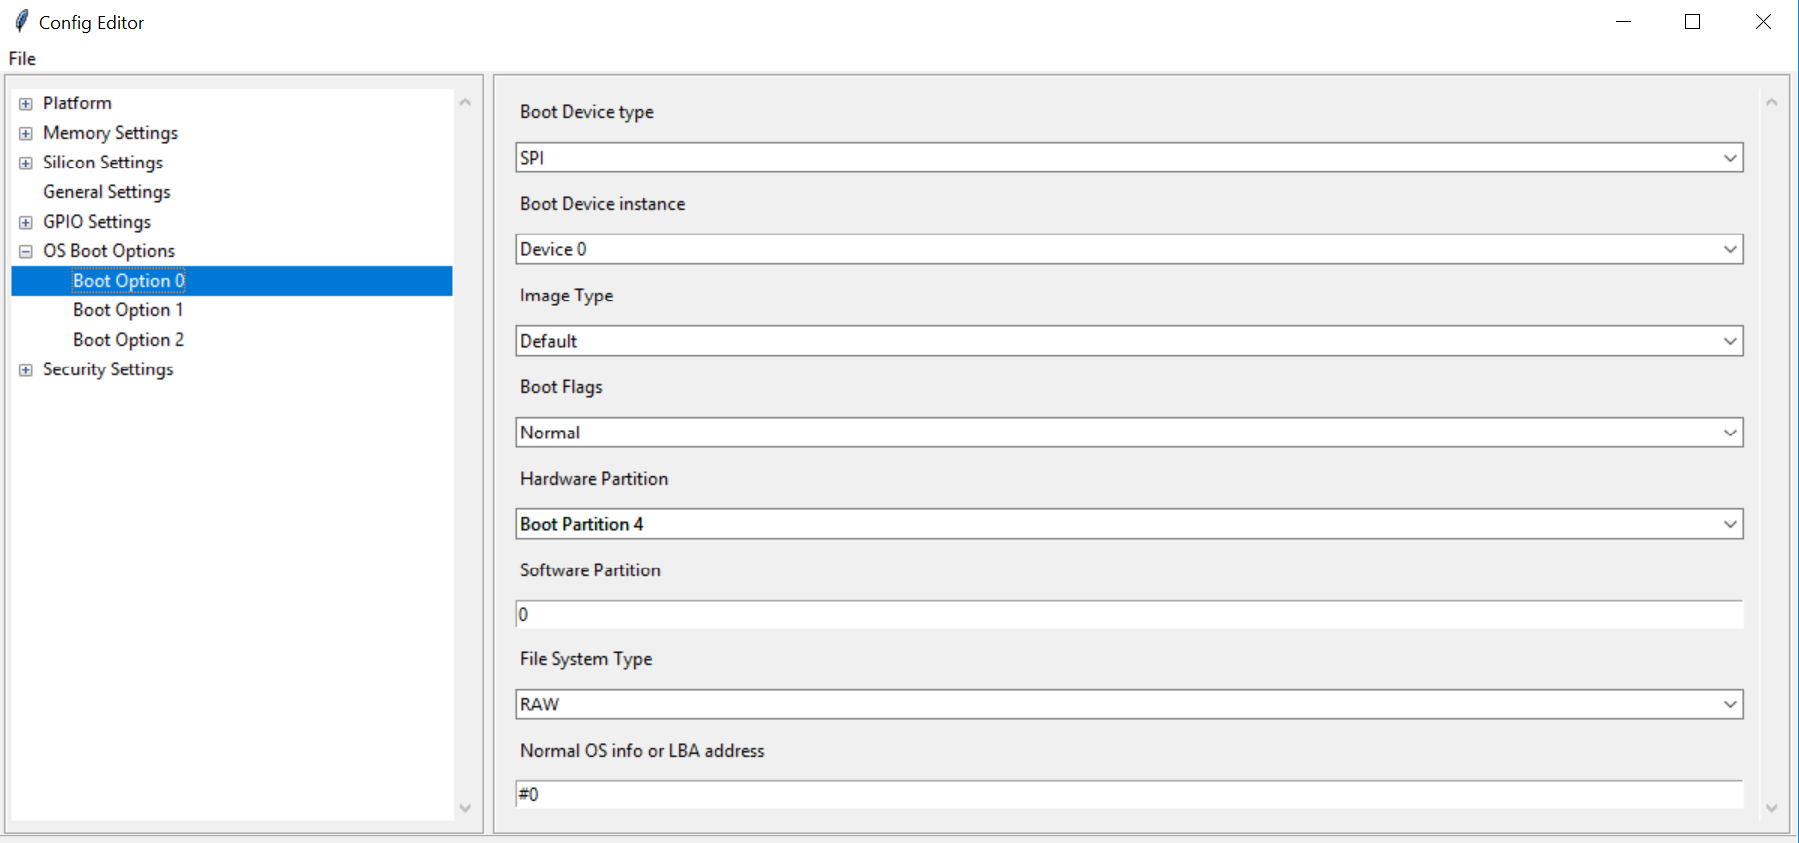
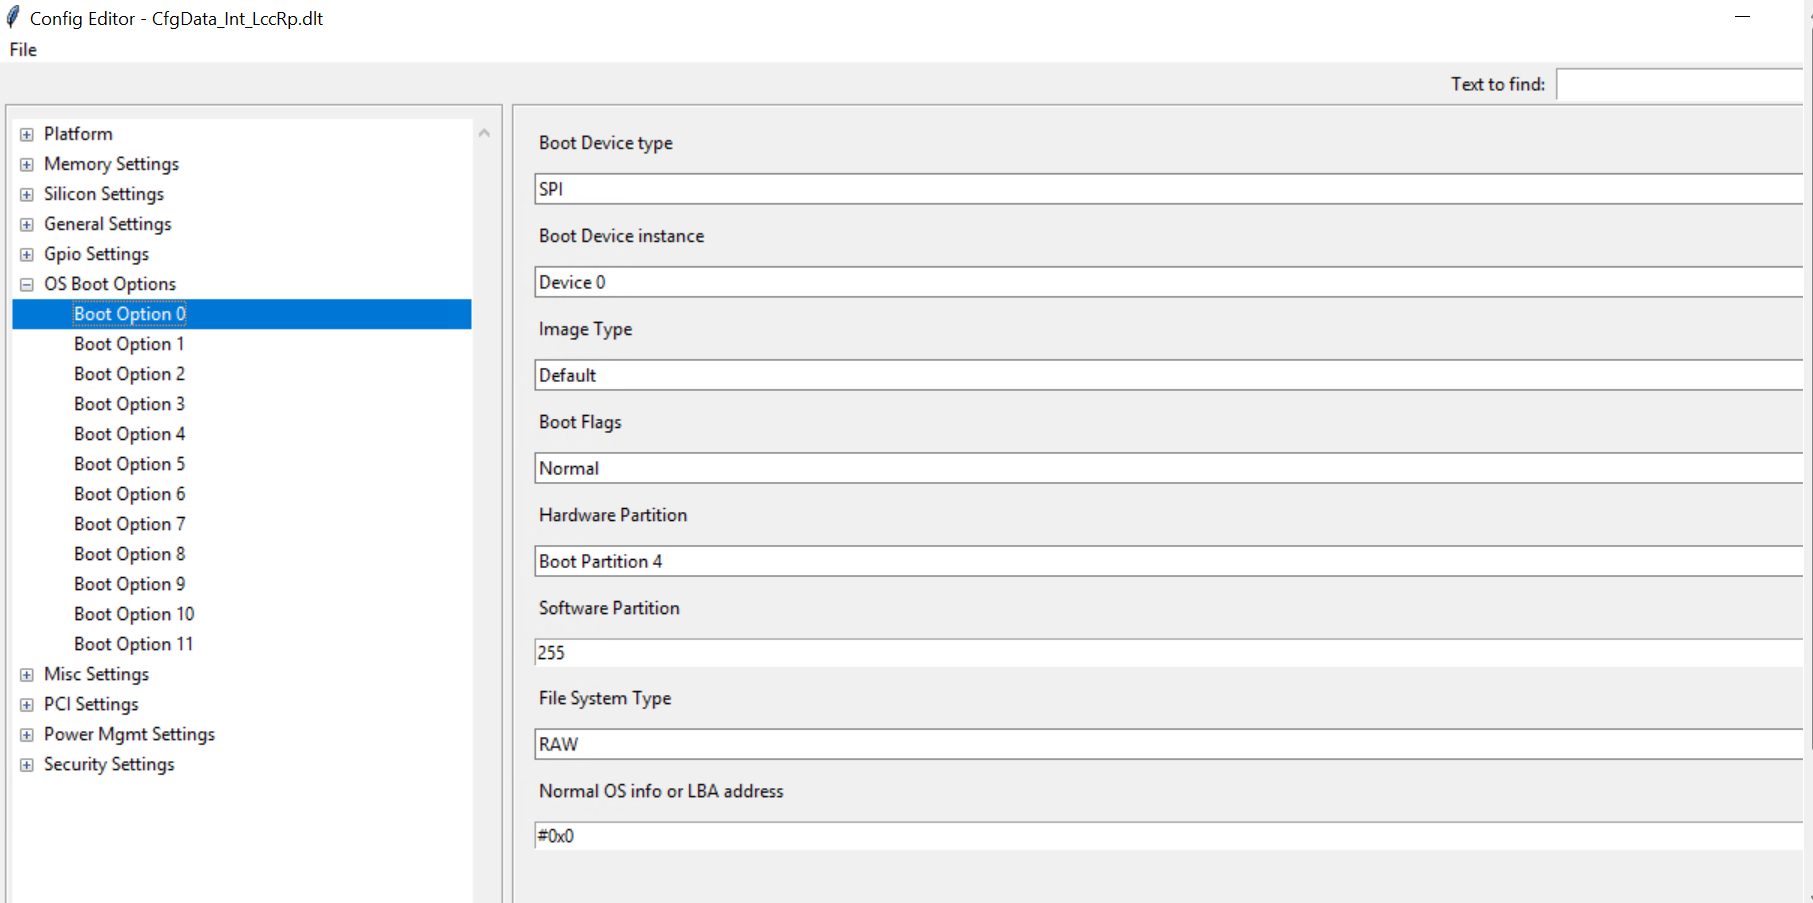
Update file names in flash-boot doc
Some filenames got missed while updating in the previous commit.
Updated the same.

Pull request: Update file names in flash-boot doc
Some filenames got missed while updating in the previous commit. Updated the same.

Changed region(s): [[0.0, 0.0, 1.0, 1.0]]

diff --git a/source/developer-guides/flash-boot.rst b/source/developer-guides/flash-boot.rst
@@ -22,15 +22,16 @@ Place the image in platform folder
 
 2. Copy Container binary image into SpiContainerBin folder.
 
-.. note:: Container image should be named as SPI_CONTAINER1.bin for 1st Container region and SPI_CONTAINER2.bin for second Container region.
+.. note:: Container image should be named as containerimage1.bin  for 1st Container region and containerimage2.bin for second Container region.
 
 
 Adding Container to BIOS region
 ==================================
 
-**Step 1:** Add SPI_CONTAINER1.bin to non-redundant region of BIOS region.::
+**Step 1:** Add containerimage1.bin to non-redundant region of BIOS region.::
 
 	('SPI_CONTAINER1.bin' , '' , self.SPI_CONTAINER1_SIZE, STITCH_OPS.MODE_FILE_PAD | container1_flag, STITCH_OPS.MODE_POS_TAIL)
+
 
 **Step 2:** Define size of the container image::
 
@@ -58,7 +59,7 @@ Boot options for Boot from BIOS region
 See :ref:`boot-options` for more details.
 
 **Step 1:** Get LBA address from flash map during build. For example refer
-below image, 0x3f8000 is the LBA offset of Container image.
+below image, 0x622f90 is the LBA offset of Container image.
 
 .. image:: /images/Flashmap.png
    :width: 5.92361in
@@ -88,10 +89,10 @@ Using Stitching method.
 **Step 1:** To place the image in PDR region, add the below changes to StitchIfwiConfig.py in function get_xml_change_list().::
 
 	('./FlashLayout/Regions/PdrRegion/Length', '0x700000'),
-	('./FlashLayout/Regions/PdrRegion/InputFile', '$SourceDir\SPI_CONTAINER1.bin'),
+	('./FlashLayout/Regions/PdrRegion/InputFile', '$SourceDir\containerimage1.bin'),
 	('./FlashLayout/Regions/PdrRegion/Enabled', 'Enabled'),
 
-**Step 2:** Copy SPI_CONTAINER1.bin to 'Input/SPI_CONTAINER1.bin'
+**Step 2:** Copy containerimage1.bin to 'Input/containerimage1.bin'
 
 **Step 3:** Stitch the final image.
 